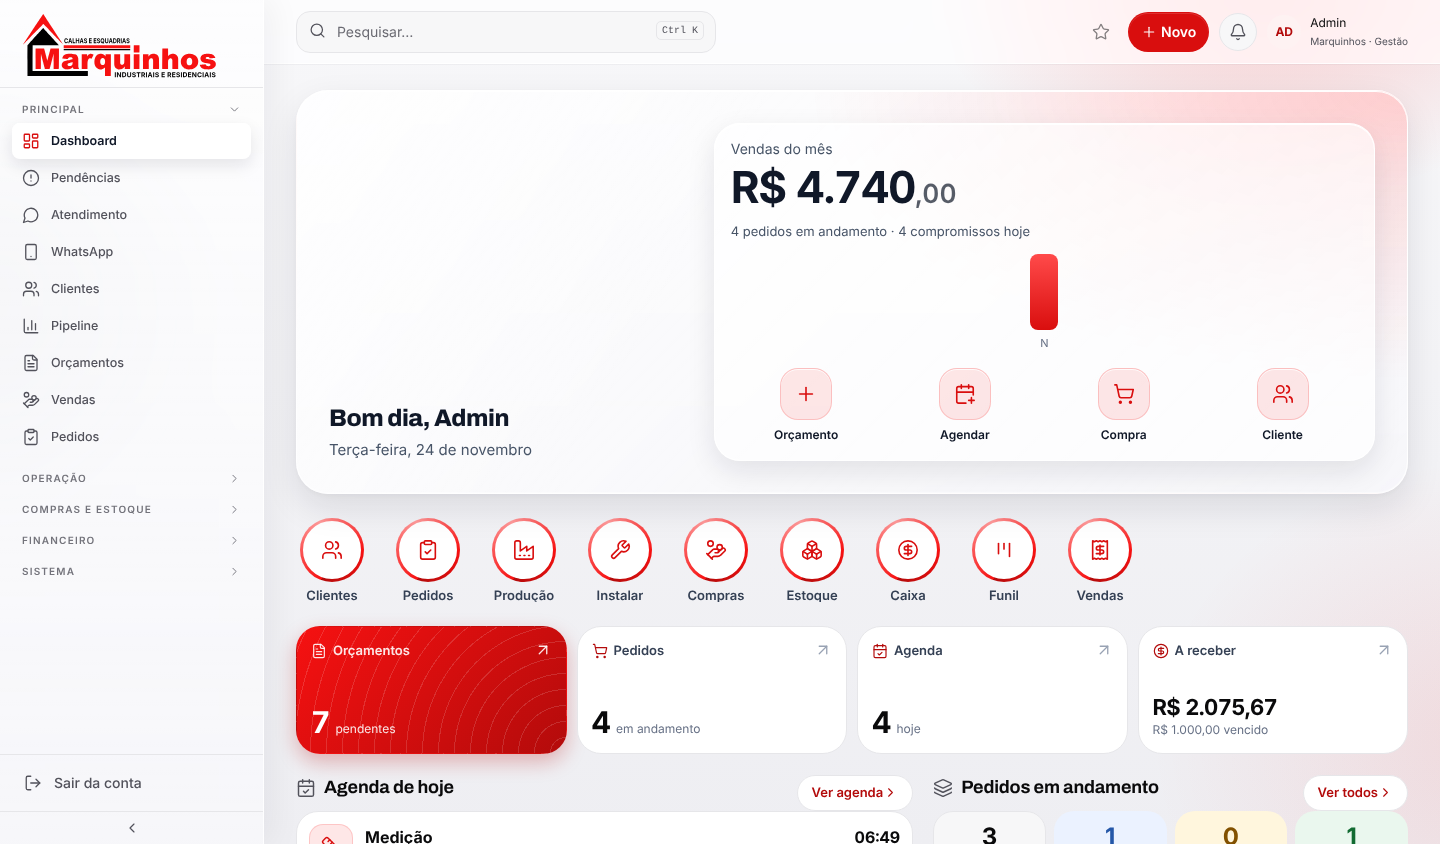
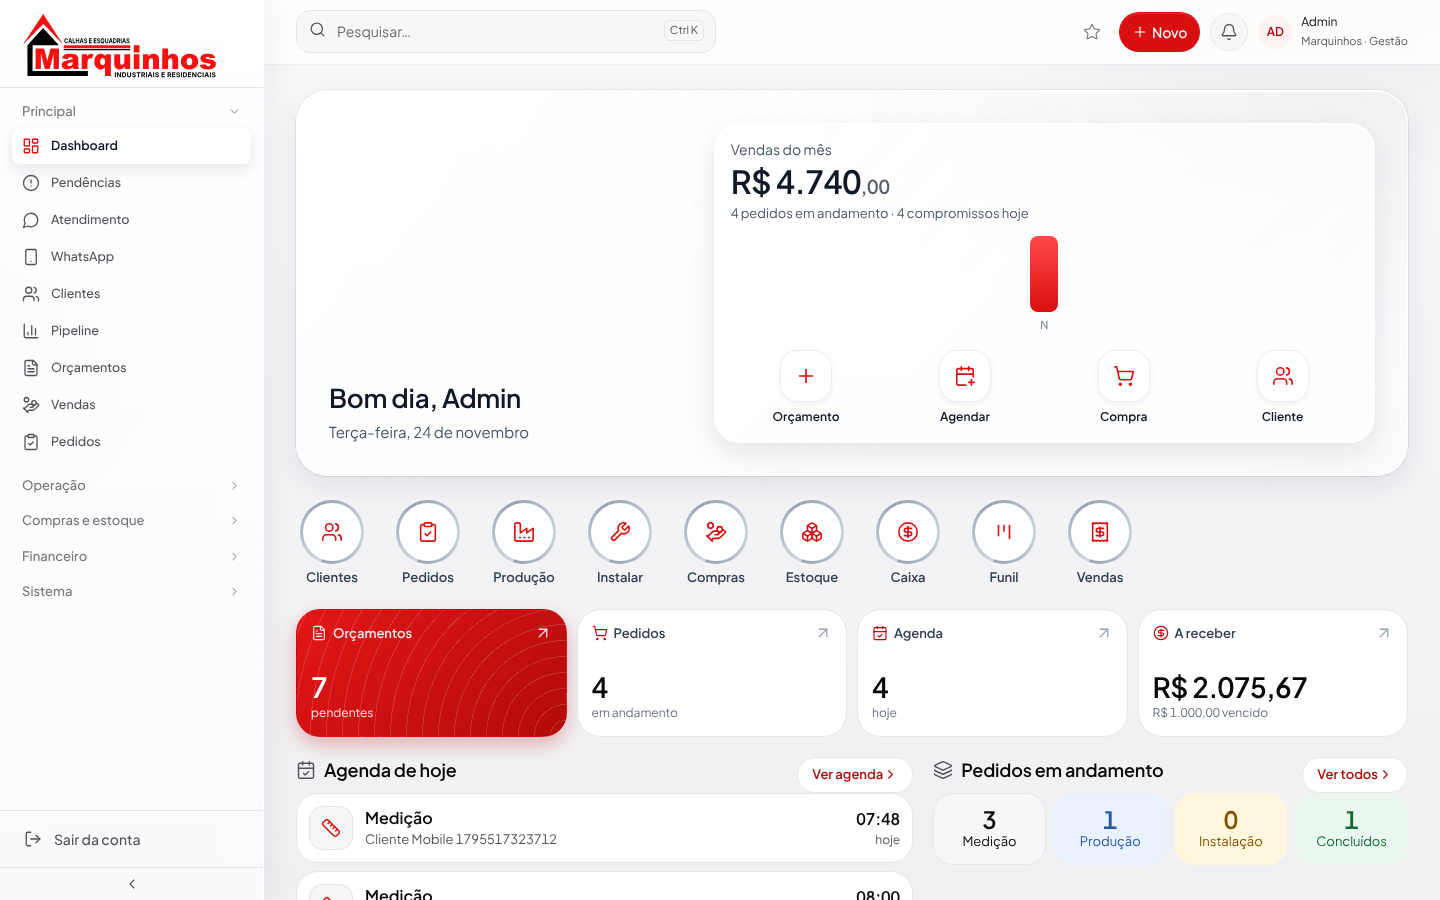
feat(ux): vidro mais branco e neutro, sem tom de vermelho, no celular e no PC
- preenchimento do vidro de 90% a 64% de branco, borda branca e anel cinza de 1 px para contraste
- fundo da página em cinza muito claro; brilho vermelho removido de painéis, atalhos, ícones e contagens
- vermelho só em ação principal, item ativo e contadores
- tokens --glass-ring e --glass-tint; documentação atualizada

Claude-Session: https://claude.ai/code/session_019r53HgSe1yoioPFHkHVqRt

diff --git a/app/glass.css b/app/glass.css
@@ -4,7 +4,7 @@
 :root {
   --glass-bg: linear-gradient(135deg, var(--glass-fill-strong) 0%, var(--glass-fill-soft) 100%);
   --glass-border: var(--glass-edge);
-  --glass-shadow: var(--glass-shadow-md), inset 0 1px 0 rgb(255 255 255 / .95), inset 0 -1px 0 rgb(255 255 255 / .4);
+  --glass-shadow: var(--glass-ring), var(--glass-shadow-md), inset 0 1px 0 rgb(255 255 255 / .95), inset 0 -1px 0 rgb(255 255 255 / .4);
   --glass-blur: blur(var(--glass-blur-px)) saturate(var(--glass-saturate));
   --ink-strong: #101828;
   --ink-soft: #475467;
@@ -16,16 +16,15 @@
 .app-shell-root { position: relative; isolation: isolate; background: #F2F2F5; }
 .app-shell-root::before { content: ""; position: fixed; inset: 0; z-index: -1; pointer-events: none;
   background:
-    radial-gradient(560px 380px at 88% -4%, rgb(246 17 17 / .20) 0%, transparent 62%),
-    radial-gradient(520px 420px at -6% 34%, rgb(16 24 40 / .08) 0%, transparent 62%),
-    radial-gradient(560px 460px at 104% 88%, rgb(246 17 17 / .10) 0%, transparent 62%),
-    linear-gradient(180deg, #F7F7F9 0%, #EEEEF2 100%); }
+    radial-gradient(560px 380px at 90% -4%, rgb(16 24 40 / .07) 0%, transparent 62%),
+    radial-gradient(520px 420px at -6% 34%, rgb(16 24 40 / .05) 0%, transparent 62%),
+    linear-gradient(180deg, #F8F8FA 0%, #F0F0F3 100%); }
 .app-workspace, .app-content { background: transparent; }
 
 /* ---------- painéis de destaque ---------- */
 .mh-hero, .shell-band, .detail-hero, .sale-hero, .module-hero {
   position: relative; overflow: hidden; color: var(--ink-strong);
-  background: radial-gradient(90% 120% at 100% 0%, rgb(246 17 17 / .16) 0%, transparent 60%), var(--glass-bg);
+  background: radial-gradient(90% 120% at 100% 0%, var(--glass-tint) 0%, transparent 62%), var(--glass-bg);
   border: 1px solid var(--glass-border);
   -webkit-backdrop-filter: var(--glass-blur); backdrop-filter: var(--glass-blur);
   box-shadow: var(--glass-shadow);
@@ -43,7 +42,7 @@
 .mh-bar-col[data-current="true"] > i, .mh-hero-card .mh-bar-col[data-current="true"] > i { background: linear-gradient(180deg, #FF4A4A, #D90E0E); }
 .mh-bar-col > span { color: var(--ink-soft); }
 .mh-circles a { color: var(--ink-strong); }
-.mh-circles a > span { background: rgb(246 17 17 / .10); color: var(--brand-strong); border: 1px solid rgb(246 17 17 / .18); box-shadow: inset 0 1px 0 rgb(255 255 255 / .8); }
+.mh-circles a > span { background: rgb(255 255 255 / .9); color: var(--brand-strong); border: 1px solid rgb(16 24 40 / .08); box-shadow: 0 2px 6px rgb(16 24 40 / .06), inset 0 1px 0 #fff; }
 .mh-pill { background: rgb(255 255 255 / .78); border: 1px solid rgb(255 255 255 / .95); color: var(--ink-strong); box-shadow: 0 4px 12px rgb(16 24 40 / .08), inset 0 1px 0 #fff; }
 .mh-pill.is-primary { background: linear-gradient(180deg, #E31616, #D90E0E); border-color: rgb(255 255 255 / .35); color: #fff; box-shadow: 0 8px 18px rgb(217 14 14 / .30), inset 0 1px 0 rgb(255 255 255 / .45); }
 .mh-hero .mh-hero-note.module-hero-count { color: var(--ink-soft); }
@@ -72,7 +71,7 @@
 /* WhatsApp: topo da lista em vidro (celular) */
 @media (max-width: 767px) {
 .mobile-inbox .wa-list-head { position: relative; overflow: hidden; color: var(--ink-strong);
-  background: radial-gradient(90% 120% at 100% 0%, rgb(246 17 17 / .16) 0%, transparent 60%), var(--glass-bg);
+  background: radial-gradient(90% 120% at 100% 0%, var(--glass-tint) 0%, transparent 62%), var(--glass-bg);
   border: 1px solid var(--glass-border); -webkit-backdrop-filter: var(--glass-blur); backdrop-filter: var(--glass-blur); box-shadow: var(--glass-shadow); }
 .mobile-inbox .wa-list-head::before { content: ""; position: absolute; inset: 0; z-index: 0; pointer-events: none; border-radius: inherit; background: linear-gradient(118deg, rgb(255 255 255 / .55) 0%, rgb(255 255 255 / 0) 36%); }
 .mobile-inbox .wa-list-head > * { position: relative; z-index: 1; }
@@ -97,20 +96,20 @@
 }
 
 /* ---------- elementos que eram pretos ---------- */
-.mh-event-icon { background: rgb(246 17 17 / .10); color: var(--brand-strong); border: 1px solid rgb(246 17 17 / .16); }
-.pq-count { background: rgb(246 17 17 / .12); color: var(--brand-strong); }
+.mh-event-icon { background: rgb(16 24 40 / .04); color: var(--brand-strong); border: 1px solid rgb(16 24 40 / .07); }
+.pq-count { background: rgb(16 24 40 / .07); color: var(--ink-strong); }
 .pq-item[data-urgent="true"] .pq-count { background: var(--brand-strong); color: #fff; }
-.mh-story { background: conic-gradient(from 200deg, #F61111, #FF9A9A 38%, #F61111 70%, #B30B0B); }
+.mh-story { background: conic-gradient(from 200deg, #D0D5DD, #98A2B3 38%, #D0D5DD 70%, #98A2B3); }
 .mh-story > span { color: var(--brand-strong); }
 .mobile-quote-workspace nav[aria-label='Status do orçamento'] a.button { background: linear-gradient(180deg, #E31616, #D90E0E); border-color: transparent; color: #fff; }
 .mobile-agenda-filters button[aria-pressed="true"] { background: linear-gradient(180deg, #E31616, #D90E0E); border-color: transparent; color: #fff; }
 
 /* ---------- barra do topo, menu lateral e barra inferior ---------- */
-.app-topbar { background: rgb(255 255 255 / .66); -webkit-backdrop-filter: var(--glass-blur); backdrop-filter: var(--glass-blur); border-bottom: 1px solid rgb(255 255 255 / .8); box-shadow: 0 1px 0 rgb(16 24 40 / .04); }
-.app-sidebar { background: linear-gradient(180deg, rgb(255 255 255 / .74), rgb(255 255 255 / .5)); -webkit-backdrop-filter: var(--glass-blur); backdrop-filter: var(--glass-blur); border-right: 1px solid rgb(255 255 255 / .85); box-shadow: 8px 0 30px rgb(16 24 40 / .05); }
+.app-topbar { background: rgb(255 255 255 / .82); -webkit-backdrop-filter: var(--glass-blur); backdrop-filter: var(--glass-blur); border-bottom: 1px solid rgb(255 255 255 / .8); box-shadow: 0 1px 0 rgb(16 24 40 / .04); }
+.app-sidebar { background: linear-gradient(180deg, rgb(255 255 255 / .90), rgb(255 255 255 / .66)); -webkit-backdrop-filter: var(--glass-blur); backdrop-filter: var(--glass-blur); border-right: 1px solid rgb(255 255 255 / .85); box-shadow: 8px 0 30px rgb(16 24 40 / .05); }
 .sidebar-link.is-active { background: #fff; color: var(--ink-strong); box-shadow: 0 6px 16px rgb(16 24 40 / .10), inset 0 1px 0 #fff; }
 .sidebar-link.is-active svg { color: var(--brand-strong); }
-.mobile-bottom-bar { background: linear-gradient(135deg, rgb(255 255 255 / .78), rgb(255 255 255 / .50)); -webkit-backdrop-filter: var(--glass-blur); backdrop-filter: var(--glass-blur); border: 1px solid rgb(255 255 255 / .9); box-shadow: 0 14px 34px rgb(16 24 40 / .16), inset 0 1px 0 #fff; }
+.mobile-bottom-bar { background: linear-gradient(135deg, rgb(255 255 255 / .92), rgb(255 255 255 / .70)); -webkit-backdrop-filter: var(--glass-blur); backdrop-filter: var(--glass-blur); border: 1px solid rgb(255 255 255 / .9); box-shadow: 0 14px 34px rgb(16 24 40 / .16), inset 0 1px 0 #fff; }
 .mobile-bottom-bar a[aria-current="page"] .mobile-tab-icon { background: linear-gradient(180deg, #FFFFFF, rgb(255 255 255 / .78)); color: var(--brand-strong); box-shadow: 0 8px 18px rgb(16 24 40 / .20), 0 0 0 4px rgb(255 255 255 / .55), inset 0 1px 0 #fff; }
 .mobile-bottom-bar a[aria-current="page"] { color: var(--ink-strong); }
 .quote-save-bar { background: rgb(255 255 255 / .78); -webkit-backdrop-filter: var(--glass-blur); backdrop-filter: var(--glass-blur); }

diff --git a/app/mobile.css b/app/mobile.css
@@ -323,7 +323,7 @@
 /* ===== Estilo "app": painel de destaque escuro, cartões bem arredondados e barra inferior flutuante ===== */
 @media screen and (max-width: 767px) {
  /* Painel de destaque do Início */
- .mh-hero { margin: -18px -16px 18px; padding: 20px 16px 16px; border-radius: 0 0 28px 28px; color: #fff; background: radial-gradient(130% 80% at 100% 0%, rgb(246 17 17 / .30) 0%, transparent 58%), linear-gradient(180deg, #2c2c2f 0%, #141416 100%); }
+ .mh-hero { margin: -18px -16px 18px; padding: 20px 16px 16px; border-radius: 0 0 28px 28px; color: #fff; }
  .mh-hero .mh-greeting { font-size: 22px; line-height: 28px; font-weight: 600; color: #fff; }
  .mh-hero .mh-date { margin: 2px 0 16px; font-size: 14px; color: rgb(255 255 255 / .62); }
  .mh-hero-label { font-size: 13px; line-height: 18px; color: rgb(255 255 255 / .62); }
@@ -395,7 +395,7 @@
  .agenda-hero-note { font-size: 13px; line-height: 18px; color: rgb(255 255 255 / .62); text-align: center; }
 
  /* WhatsApp: cabeçalho da lista em painel */
- .mobile-inbox .wa-list-head { padding-bottom: 16px; border-radius: 0 0 28px 28px; color: #fff; background: radial-gradient(130% 80% at 100% 0%, rgb(246 17 17 / .26) 0%, transparent 58%), linear-gradient(180deg, #2c2c2f 0%, #141416 100%); }
+ .mobile-inbox .wa-list-head { padding-bottom: 16px; border-radius: 0 0 28px 28px; color: #fff; }
  .mobile-inbox .wa-list-head .wa-title { color: #fff; }
  .mobile-inbox .wa-list-head .wa-subtitle { color: rgb(255 255 255 / .65); }
  .mobile-inbox .wa-list-head .wa-icon-btn { color: #fff; }
@@ -523,7 +523,7 @@
 
 /* Faixa de título (telas sem painel próprio), filtros recolhíveis e migalhas fora do celular */
 @media screen and (max-width: 767px) {
- .shell-band { display: flex; align-items: center; gap: 12px; margin: -18px -16px 16px; padding: 18px 16px 20px; border-radius: 0 0 28px 28px; color: #fff; font-size: 24px; line-height: 30px; font-weight: 600; letter-spacing: var(--tracking-heading); background: radial-gradient(130% 120% at 100% 0%, rgb(246 17 17 / .28) 0%, transparent 58%), linear-gradient(180deg, #2c2c2f 0%, #141416 100%); }
+ .shell-band { display: flex; align-items: center; gap: 12px; margin: -18px -16px 16px; padding: 18px 16px 20px; border-radius: 0 0 28px 28px; color: #fff; font-size: 24px; line-height: 30px; font-weight: 600; letter-spacing: var(--tracking-heading); }
  .shell-band-icon { display: flex; align-items: center; justify-content: center; flex: none; width: 44px; height: 44px; border-radius: 15px; background: var(--brand); }
  .app-content:has(.mh-hero) > .shell-band, .app-content:has(.mobile-inbox) > .shell-band, .app-content:has(.mobile-agenda) > .shell-band { display: none; }
  .app-content:has(> .shell-band) > nav[aria-label="Você está em"] { display: none; }

diff --git a/app/home.css b/app/home.css
@@ -46,7 +46,7 @@
 .mh-stages a[data-stage=done] { background: var(--success-soft); color: var(--success-text); border-color: transparent; }
 .mh-list > li, .mh-event { min-width: 0; max-width: 100%; }
 .mh-kpis > a, .mh-actions > a, .mh-stages > a { min-width: 0; }
-.mh-hero { margin: 0 0 4px; padding: 20px 16px 16px; border-radius: 0 0 28px 28px; color: #fff; background: radial-gradient(130% 80% at 100% 0%, rgb(246 17 17 / .30) 0%, transparent 58%), linear-gradient(180deg, #2c2c2f 0%, #141416 100%); }
+.mh-hero { margin: 0 0 4px; padding: 20px 16px 16px; border-radius: 0 0 28px 28px; color: #fff; }
 .mh-hero .mh-greeting { font-size: 22px; line-height: 28px; font-weight: 600; color: #fff; }
 .mh-hero .mh-date { margin: 2px 0 16px; font-size: 14px; color: rgb(255 255 255 / .62); }
 .mh-hero-label { font-size: 13px; line-height: 18px; color: rgb(255 255 255 / .62); }
@@ -167,7 +167,7 @@
 
 /* Filtros recolhíveis: no PC o conteúdo aparece sempre */
 .mc-toggle { display: none; }
-.shell-band { display: flex; align-items: center; gap: 14px; margin: 0 0 20px; padding: 22px 28px; border-radius: 28px; color: #fff; font-size: 26px; line-height: 32px; font-weight: 600; letter-spacing: var(--tracking-heading); background: radial-gradient(130% 120% at 100% 0%, rgb(246 17 17 / .28) 0%, transparent 58%), linear-gradient(180deg, #2c2c2f 0%, #141416 100%); }
+.shell-band { display: flex; align-items: center; gap: 14px; margin: 0 0 20px; padding: 22px 28px; border-radius: 28px; color: #fff; font-size: 26px; line-height: 32px; font-weight: 600; letter-spacing: var(--tracking-heading); }
 .shell-band-icon { display: flex; align-items: center; justify-content: center; flex: none; width: 46px; height: 46px; border-radius: 16px; background: var(--brand); }
 .app-content:has(.mh-hero) > .shell-band, .app-content:has(.mobile-inbox) > .shell-band, .app-content:has(.mobile-agenda) > .shell-band, .app-content:has(.agenda-stack) > .shell-band { display: none; }
 @media (min-width: 768px) {

diff --git a/app/brand-tokens.css b/app/brand-tokens.css
@@ -128,12 +128,14 @@ body {
   /* Alvos de toque */
   --tap: 44px;
   /* Vidro (consumido por app/glass.css) */
-  --glass-fill-strong: rgb(255 255 255 / .74);
-  --glass-fill-soft: rgb(255 255 255 / .38);
-  --glass-edge: rgb(255 255 255 / .85);
+  --glass-fill-strong: rgb(255 255 255 / .90);
+  --glass-fill-soft: rgb(255 255 255 / .64);
+  --glass-edge: rgb(255 255 255 / .96);
+  --glass-ring: 0 0 0 1px rgb(16 24 40 / .06);
+  --glass-tint: rgb(16 24 40 / .045); /* cinza muito leve para dar contraste ao vidro branco */
   --glass-blur-px: 22px;
   --glass-saturate: 175%;
-  --glass-shadow-md: 0 14px 34px rgb(16 24 40 / .10), 0 2px 6px rgb(16 24 40 / .04);
+  --glass-shadow-md: 0 12px 30px rgb(16 24 40 / .08), 0 1px 3px rgb(16 24 40 / .05);
   --glass-shadow-sm: 0 4px 12px rgb(16 24 40 / .08);
   --glass-fallback: rgb(255 255 255 / .94);
 }

diff --git a/DESIGN_SYSTEM.md b/DESIGN_SYSTEM.md
@@ -65,7 +65,11 @@ Raios: controle 12 · card 20 · painel 28 · pílula 999.
 
 ## Vidro (glassmorphism)
 
-Tokens em `brand-tokens.css`: `--glass-fill-strong`, `--glass-fill-soft`, `--glass-edge`, `--glass-blur-px` (22 px; 16 px no celular),
+Vidro **branco e neutro**: preenchimento de 90% → 64% de branco, borda branca e um anel cinza de 1 px (`--glass-ring`) para dar contraste.
+Sem tom de vermelho nas superfícies: o fundo da página é cinza muito claro e o único cinza do vidro é `--glass-tint` (4,5%).
+O vermelho fica só em ação principal, item ativo e contadores.
+
+Tokens em `brand-tokens.css`: `--glass-fill-strong`, `--glass-fill-soft`, `--glass-edge`, `--glass-ring`, `--glass-tint`, `--glass-blur-px` (22 px; 16 px no celular),
 `--glass-saturate`, `--glass-shadow-md/sm`, `--glass-fallback`.
 
 Onde usar: painéis de destaque (`.mh-hero`, `.shell-band`, `.module-hero`, `.detail-hero`, `.sale-hero`), barra do topo, menu lateral,
